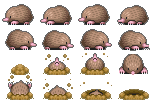
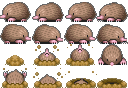
Fixed soirmole sprite hitbox

diff --git a/index.js b/index.js
@@ -161,7 +161,7 @@ function preload() {
     this.load.image('default_pill', 'assets/default_pill.png');
     this.load.image('god', 'assets/god.png');
     this.load.spritesheet('laser', 'assets/lasoir.png', { frameWidth: 800, frameHeight: 200 });
-    this.load.spritesheet('dude', 'assets/SoirMole.png', { frameWidth: 38, frameHeight: 25 });
+    this.load.spritesheet('dude', 'assets/SoirMole.png', { frameWidth: 32, frameHeight: 22 });
 
     this.load.spritesheet('police', 'assets/Policemole.png', { frameWidth: 38, frameHeight: 25 });
 
